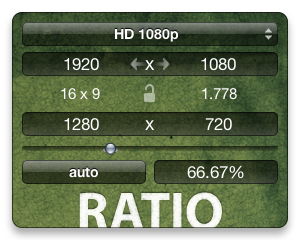
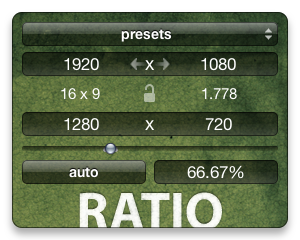
Version 2.1.7

Changed region(s): [[0.36, 0.1167, 0.6, 0.175]]

diff --git a/Ratio.dcproj/project.wdgt/main.css b/Ratio.dcproj/project.wdgt/main.css
@@ -64,7 +64,7 @@ body {
     background-color: rgba(0, 0, 0, 0);
     background-image: url(Images/formBackground%203.png);
     background-repeat: repeat-x;
-    border-color: rgba(0, 0, 0, 0.496094);
+    border-color: rgba(0, 0, 0, 0.5);
     background-position: 50% 50%;
 }
 
@@ -207,7 +207,7 @@ body {
     background-color: rgba(0, 0, 0, 0);
     background-image: url(Images/formBackground%201.png);
     background-repeat: repeat-x;
-    border-color: rgba(0, 0, 0, 0.496094);
+    border-color: rgba(0, 0, 0, 0.5);
     background-position: 50% 50%;
 }
 
@@ -239,7 +239,7 @@ body {
     margin-left: auto;
     margin-bottom: auto;
     top: -2px;
-    border-color: rgba(0, 0, 0, 0.308594);
+    border-color: rgba(0, 0, 0, 0.5);
 }
 
 #aspect {
@@ -313,7 +313,7 @@ body {
     background-repeat: repeat-x;
     background-image: url(Images/formBackground%202.png);
     border-style: solid;
-    border-color: rgba(0, 0, 0, 0.496094);
+    border-color: rgba(0, 0, 0, 0.5);
     background-position: 50% 50%;
 }
 
@@ -327,7 +327,7 @@ body {
     margin-right: 0px;
     margin-bottom: 0px;
     width: auto;
-    border-color: rgba(0, 0, 0, 0.300781);
+    border-color: rgba(0, 0, 0, 0.5);
 }
 
 #explanation {
@@ -607,21 +607,20 @@ body {
     padding: 0px;
     -khtml-margin-top-collapse: separate;
     -khtml-margin-bottom-collapse: separate;
-    -webkit-border-top-left-radius: 4px 4px;
-    -webkit-border-top-right-radius: 4px 4px;
-    -webkit-border-bottom-left-radius: 4px 4px;
-    -webkit-border-bottom-right-radius: 4px 4px;
     border-width: 1px;
     opacity: 1;
-    border-style: solid;
-    margin-top: 0px;
-    margin-bottom: 4px;
+    border-color: rgb(0, 0, 0);
+    background-color: rgba(0, 0, 0, 0.25);
+    height: 24px;
+    margin-left: 2px;
+    margin-top: 2px;
+    margin-bottom: 2px;
+    margin-right: 2px;
     width: auto;
-    margin-left: 0px;
-    margin-right: 0px;
-    height: 22px;
-    border-color: rgba(0, 0, 0, 0.179688);
-    background-color: rgba(0, 0, 0, 0.078125);
+    -webkit-border-top-left-radius: 5px 5px;
+    -webkit-border-top-right-radius: 5px 5px;
+    -webkit-border-bottom-left-radius: 5px 5px;
+    -webkit-border-bottom-right-radius: 5px 5px;
 }
 
 .label_template {
@@ -631,17 +630,17 @@ body {
     text-overflow: ellipsis;
     overflow: hidden;
     white-space: nowrap;
-    height: auto;
-    top: 2px;
-    bottom: 2px;
     color: rgb(255, 255, 255);
     font-size: 14px;
     text-shadow: rgb(0, 0, 0) 0px -1px 1px;
     text-align: center;
-    line-height: 16px;
     left: 62px;
     margin-right: auto;
     width: 120px;
+    line-height: 16px;
+    height: auto;
+    top: 3px;
+    bottom: 3px;
 }
 
 #ratioList {
@@ -653,8 +652,8 @@ body {
     bottom: auto;
     width: auto;
     left: 0px;
-    top: 4px;
-    right: 0px;
+    right: 20px;
+    top: 0px;
 }
 
 #scrollBox {
@@ -677,7 +676,7 @@ body {
     height: 128px;
     background-image: url(Images/Form-Background-xLarge.png);
     overflow: hidden;
-    border-color: rgba(0, 0, 0, 0.496094);
+    border-color: rgba(0, 0, 0, 0.5);
     background-position: 50% 50%;
 }
 
@@ -686,13 +685,12 @@ body {
     font-family: HelveticaNeue;
     font-size: 10pt;
     position: absolute;
-    right: auto;
-    bottom: auto;
-    margin-top: 0px;
-    left: 4px;
-    width: 246px;
-    height: 128px;
-    top: 0px;
+    right: 2px;
+    width: auto;
+    bottom: 2px;
+    height: auto;
+    top: 2px;
+    left: 2px;
 }
 
 .labelScale_template {
@@ -703,9 +701,7 @@ body {
     color: rgb(255, 255, 255);
     text-shadow: rgb(0, 0, 0) 0px -1px 1px;
     text-align: center;
-    top: 2px;
     left: 12px;
-    bottom: 2px;
     height: auto;
     margin-right: auto;
     width: 50px;
@@ -713,4 +709,6 @@ body {
     font-size: 12px;
     line-height: 18px;
     opacity: 0.7;
+    top: 3px;
+    bottom: 3px;
 }

diff --git a/Ratio.dcproj/project.wdgt/Parts/setup.js b/Ratio.dcproj/project.wdgt/Parts/setup.js
@@ -18,7 +18,7 @@ var dashcodePartSpecs = {
     "limits": { "creationFunction": "CreatePopupButton", "leftImageWidth": 5, "onchange": "updateLimit", "options": [["no limit", "none"], ["integer", "1"], ["base 2", "2"], ["base 4", "4"], ["base 5", "5"], ["base 6", "6"], ["base 8", "8"], ["base 10", "10", true], ["base 12", "12"], ["base 16", "16"]], "rightImageWidth": 16 },
     "new": { "creationFunction": "CreateText", "text": "new" },
     "newVersion": { "creationFunction": "CreateText", "text": "newVersion" },
-    "presets": { "creationFunction": "CreatePopupButton", "leftImageWidth": 5, "onchange": "updatePreset", "options": ["presets", ["HD 1080p", "1920x1080", true], ["HD 720p", "1280x720"], ["HD 480p", "852x480"], ["SD NTSC", "720x480"], ["SD PAL", "720x576"], ["Apple iPhone & iPod Touch", "320x480"], ["Microsoft Zune HD", "272x480"], ["Microsoft Windows Mobile", "480x800"], ["Microsoft Surface", "1024x768"], ["Desktop Fullscreen", "1600x1200"], ["Desktop Widescreen", "1920x1200"], ["Film 1.85", "2220x1200"], ["Film 2.35", "2820x1200"]], "rightImageWidth": 16 },
+    "presets": { "creationFunction": "CreatePopupButton", "leftImageWidth": 5, "onchange": "updatePreset", "options": ["presets", ["HD 1080p", "1920x1080"], ["HD 720p", "1280x720"], ["HD 480p", "852x480"], ["SD NTSC", "720x480"], ["SD PAL", "720x576"], ["Apple iFrame", "960x540"], ["Apple iPhone & iPod Touch", "320x480"], ["Microsoft Zune HD", "272x480"], ["Microsoft Windows Mobile", "480x800"], ["Microsoft Surface", "1024x768"], ["Desktop Fullscreen", "1600x1200"], ["Desktop Widescreen", "1920x1200"], ["Film 1.85", "2220x1200"], ["Film 2.35", "2820x1200"]], "rightImageWidth": 16 },
     "ratioList": { "creationFunction": "CreateList", "dataArray": ["Item 1", "Item 2", "Item 3"], "dataSourceName": "listData", "labelElementId": "label", "listStyle": "List.EDGE_TO_EDGE", "sampleRows": 3, "useDataSource": true },
     "scrollArea": { "autoHideScrollbars": true, "creationFunction": "CreateScrollArea", "hasVerticalScrollbar": true, "scrollbarDivSize": 18, "scrollbarMargin": 6, "spacing": -18 },
     "skip": { "creationFunction": "CreateButton", "leftImageWidth": 5, "onclick": "showMain", "rightImageWidth": 5, "text": "skip" },
